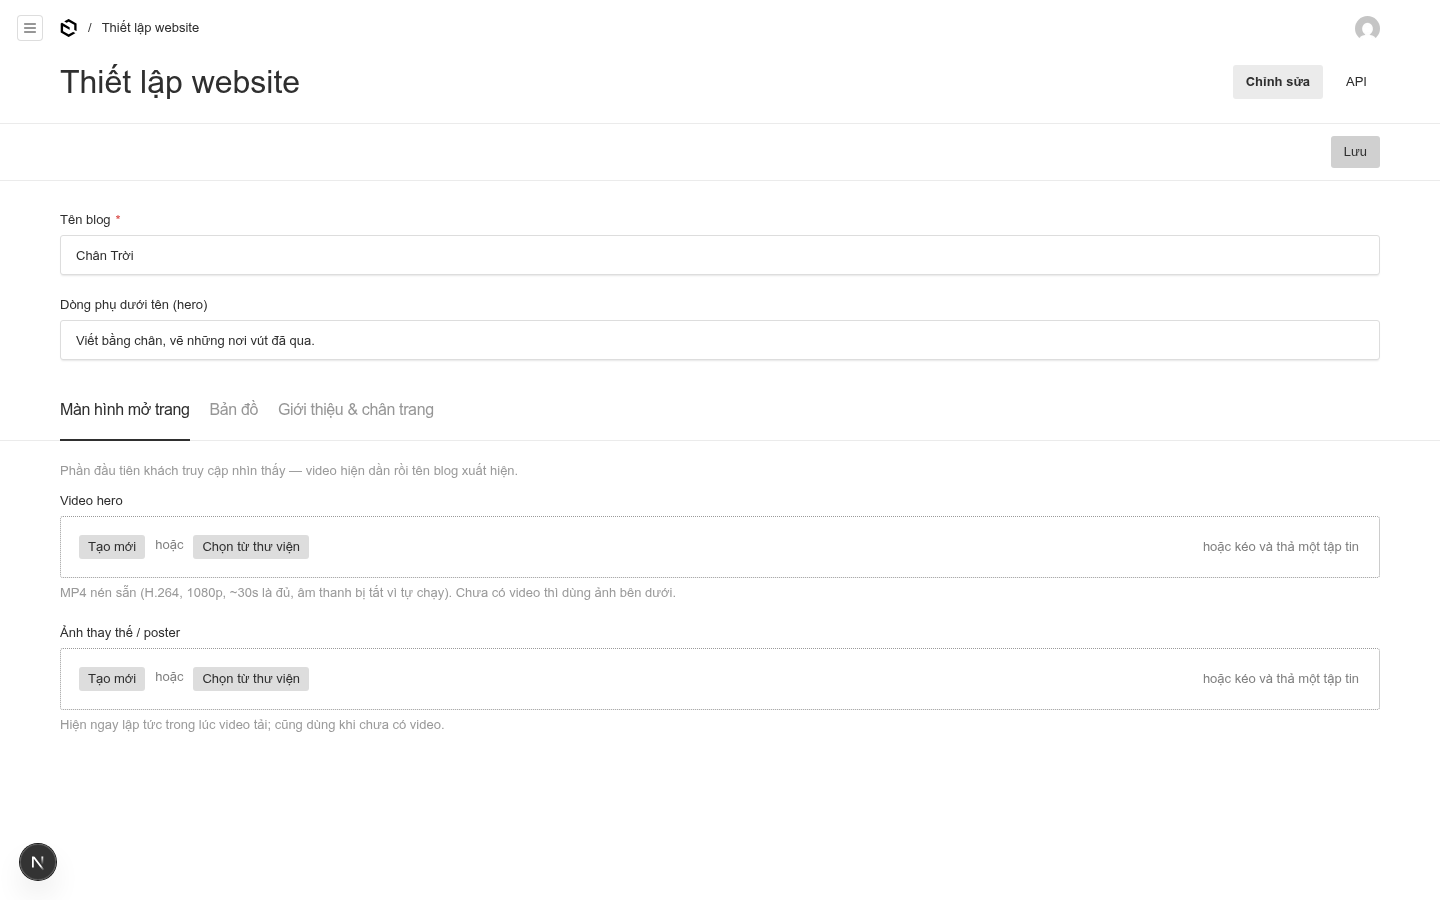
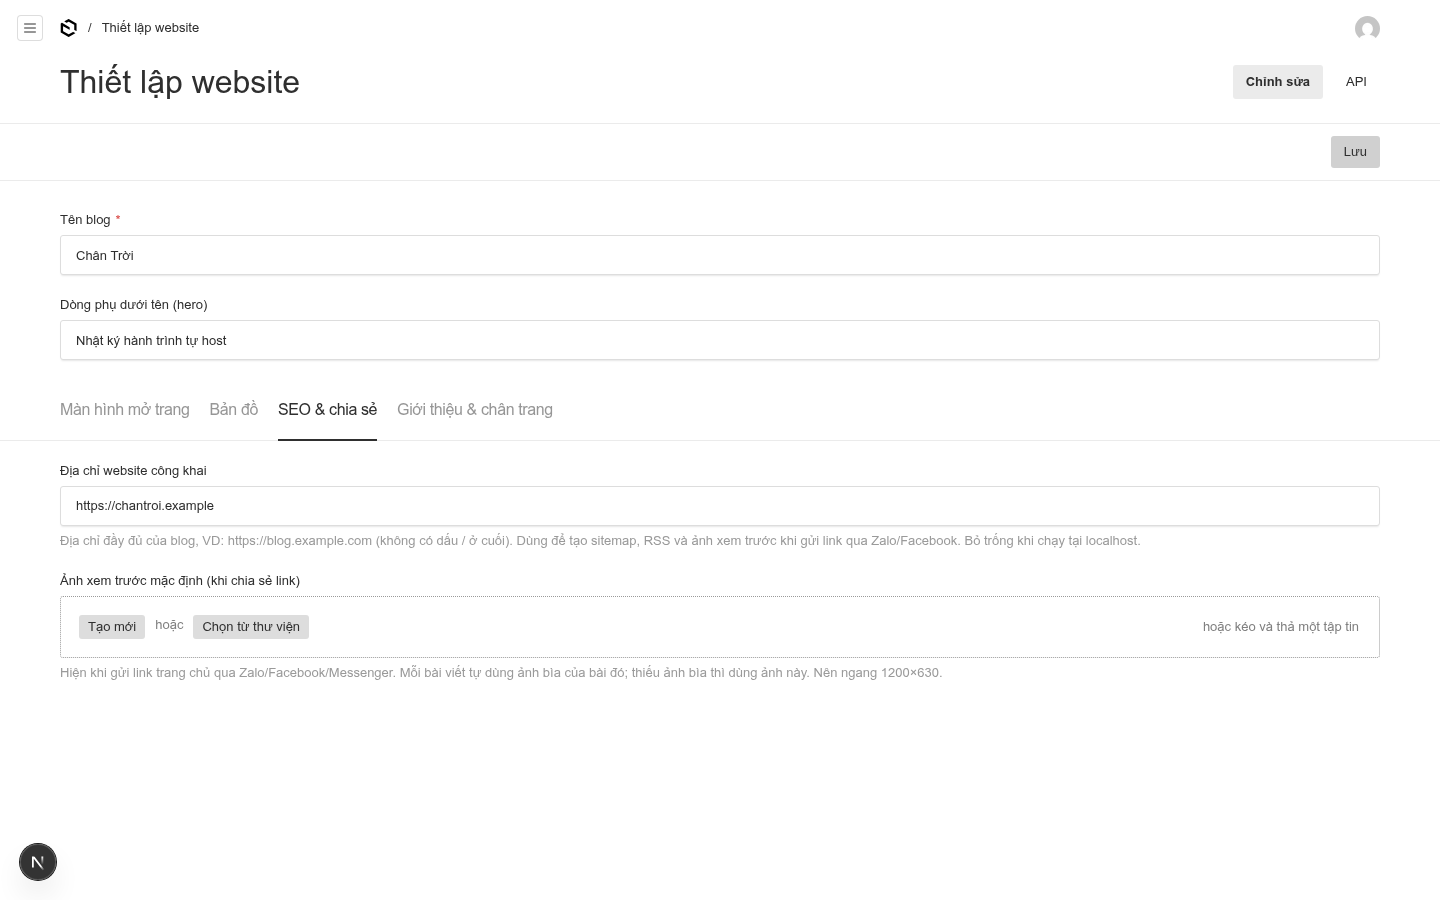
Bổ sung ảnh màn hình 4 tính năng mới (SEO, RSS, sitemap, email)
- admin-settings-seo.png: tab SEO & chia sẻ (địa chỉ website + ảnh xem trước)
- admin-email.png: Thiết lập email (7 trường SMTP, giá trị mock từ hệ thống chạy thử)
- feed-xml.png: RSS feed chạy thật trong trình duyệt
- sitemap-xml.png: sitemap tự sinh trong trình duyệt
- admin-settings.png: chụp lại — giờ có 4 tab
- man-hinh-quan-tri.md: nhóm mới 'SEO, RSS & email thông báo' (4 ảnh + mô tả)
- README.md: thêm 2 hàng gallery + cập nhật mô tả bộ sưu tập

diff --git a/docs/man-hinh-quan-tri.md b/docs/man-hinh-quan-tri.md
@@ -9,7 +9,8 @@
 2. [Viết bài & địa điểm](#viết-bài--địa-điểm)
 3. [Bình luận & AI](#bình-luận--ai)
 4. [Thiết lập](#thiết-lập)
-5. [Media, người dùng, thẻ](#media-người-dùng-thẻ)
+5. [SEO, RSS & email thông báo](#seo-rss--email-thông-báo)
+6. [Media, người dùng, thẻ](#media-người-dùng-thẻ)
 
 ---
 
@@ -65,14 +66,31 @@
 
 ### Thiết lập website
 ![Thiết lập website](screenshots/admin-settings.png)
-*Tab **Màn hình mở trang**: video hero (tự chạy hiện dần) + ảnh poster. Tab **Bản đồ**: đường dẫn style. Tab **SEO & chia sẻ**: địa chỉ website (tự sinh sitemap + RSS + ảnh xem trước khi gửi link qua Zalo/Facebook) và ảnh xem trước mặc định. Tab **Giới thiệu & chân trang**: lời giới thiệu, avatar, mạng xã hội. Tên blog cũng đặt ở đây.*
+*4 tab: **Màn hình mở trang** (video hero + poster) · **Bản đồ** (đường dẫn style) · **SEO & chia sẻ** · **Giới thiệu & chân trang**. Tên blog cũng đặt ở đây.*
 
 ### Thiết lập AI
 ![Thiết lập AI](screenshots/admin-ai-config.png)
 *Toàn bộ AI cấu hình qua UI: **Provider** (OpenRouter mặc định), API key, model, bật/tắt tự áp dụng, **bảng ngưỡng tin cậy riêng cho từng loại** (Duyệt ≥80% · Từ chối ≥85% · Spam ≥85% — chỉnh từng dòng), và **prompt kiểm duyệt** sửa được theo ý bạn.*
 
+---
+
+## SEO, RSS & email thông báo
+
+### Tab SEO & chia sẻ
+![Tab SEO & chia sẻ](screenshots/admin-settings-seo.png)
+*Điền **địa chỉ website công khai** (VD `https://blog.example.com`) và **ảnh xem trước mặc định** — xong. Hệ thống tự sinh sitemap, RSS và thẻ chia sẻ cho Zalo/Facebook từ 2 dòng này.*
+
 ### Thiết lập email
-*Mục **Thiết lập email** bên trái: bật "Gửi email khi có bình luận mới", điền máy chủ SMTP (VD smtp.gmail.com), cổng, tên đăng nhập + **mật khẩu ứng dụng**, địa chỉ gửi và email nhận thông báo. Gmail dùng App Password (myaccount.google.com/apppasswords), không dùng mật khẩu đăng nhập. Có bình luận mới là nhận thư ngay, kèm link vào admin để duyệt.*
+![Thiết lập email](screenshots/admin-email.png)
+*7 trường: bật gửi thông báo, máy chủ SMTP (VD smtp.gmail.com), cổng, tên đăng nhập, mật khẩu ứng dụng, địa chỉ gửi, email nhận thông báo. Có bình luận mới là nhận thư ngay, kèm link vào admin để duyệt. (Ảnh chụp từ hệ thống chạy thử — giá trị mẫu là mock, không phải key thật.)*
+
+### RSS feed (/feed.xml)
+![RSS feed](screenshots/feed-xml.png)
+*Chuẩn RSS 2.0, tự sinh từ bài đã xuất bản — người đọc theo dõi qua Feedly/Inoreader, không phụ thuộc mạng xã hội.*
+
+### Sitemap (/sitemap.xml)
+![Sitemap](screenshots/sitemap-xml.png)
+*Sitemap XML tự sinh: trang chủ + mỗi bài đã xuất bản một URL (kèm ngày sửa đổi gần nhất). Nộp link này cho Google Search Console là xong SEO cơ bản.*
 
 ---
 

diff --git a/README.md b/README.md
@@ -39,7 +39,7 @@ Mở **http://localhost/admin** → tạo user đầu tiên → cấu hình mọ
 |---|---|
 | [`app/README.md`](app/README.md) | **Hướng dẫn chi tiết từng bước** (tiếng Việt): cài Docker, khởi chạy, tạo tài khoản, bảng thiết lập quản trị, nén video hero, bản đồ tự host, VPS + tên miền + HTTPS, backup, xử lý sự cố |
 | [`docs/van-hanh.md`](docs/van-hanh.md) | **Sổ tay vận hành**: cập nhật (update), sao lưu (backup) tự động hằng ngày, khôi phục (restore) trên máy mới — ai cũng làm được |
-| [`docs/man-hinh-quan-tri.md`](docs/man-hinh-quan-tri.md) | **Bộ 14 màn hình trang quản trị** kèm mô tả từng màn — xem trước giao diện trước khi chạy |
+| [`docs/man-hinh-quan-tri.md`](docs/man-hinh-quan-tri.md) | **Bộ màn hình trang quản trị** kèm mô tả từng màn — gồm cả tab SEO, RSS, sitemap, thiết lập email — xem trước giao diện trước khi chạy |
 | [`app/.env.example`](app/.env.example) | File cấu hình tối thiểu (3 biến), có chú thích từng dòng |
 | [`design-demos/`](design-demos/) | Mockup thiết kế HTML + ảnh (phương án 2 — tạp chí, phương án 3 — cinematic đã chọn) |
 | [`docs/screenshots/`](docs/screenshots/) | Ảnh chụp hệ thống chạy thật |
@@ -57,6 +57,8 @@ Mở **http://localhost/admin** → tạo user đầu tiên → cấu hình mọ
 | ![Thiết lập website](docs/screenshots/admin-settings.png) | **Thiết lập website** — tên blog, video hero + poster (3 tab: Màn hình mở trang / Bản đồ / Giới thiệu & chân trang) |
 | ![Thiết lập AI](docs/screenshots/admin-ai-config.png) | **Thiết lập AI** — provider, API key, model, ngưỡng tin cậy **riêng cho từng loại** (duyệt/từ chối/spam), prompt kiểm duyệt có thể sửa |
 | ![Danh sách bài viết](docs/screenshots/admin-post-list.png) | **Danh sách bài viết** — trạng thái từng bài (đã xuất bản / nháp), vào sửa hoặc tạo mới |
+| ![Tab SEO & chia sẻ](docs/screenshots/admin-settings-seo.png) | **Tab SEO & chia sẻ** — điền địa chỉ website + ảnh xem trước, hệ thống tự sinh sitemap/RSS/thẻ chia sẻ |
+| ![Thiết lập email](docs/screenshots/admin-email.png) | **Thiết lập email** — SMTP qua UI, có bình luận mới là nhận thư thông báo kèm link vào admin |
 
 ## Công nghệ
 
